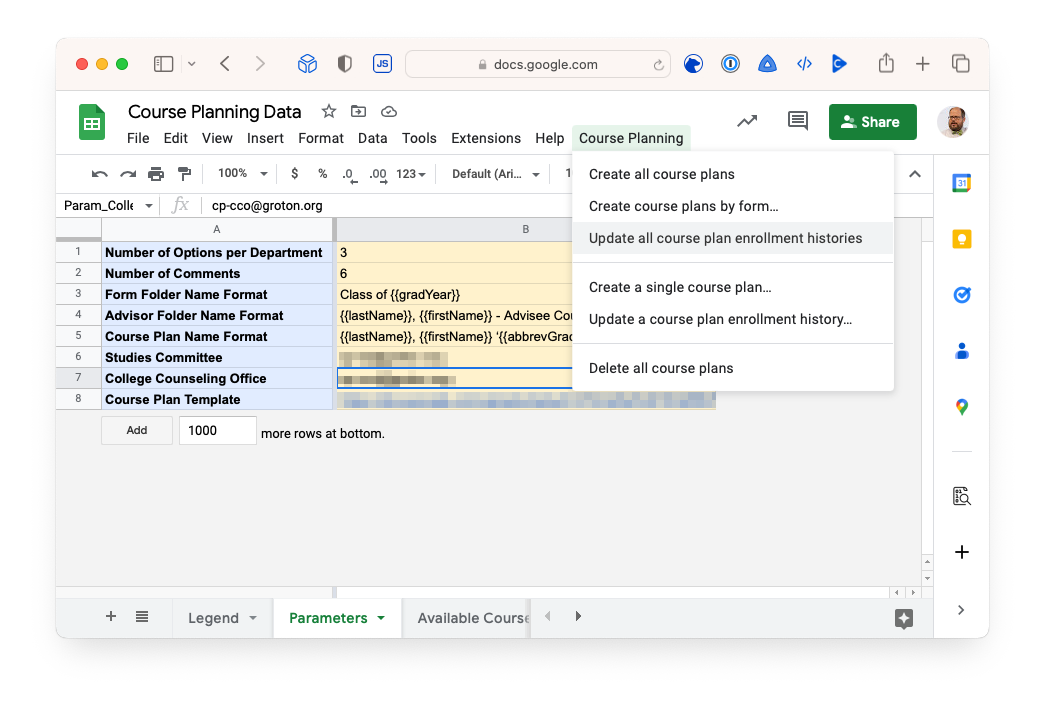
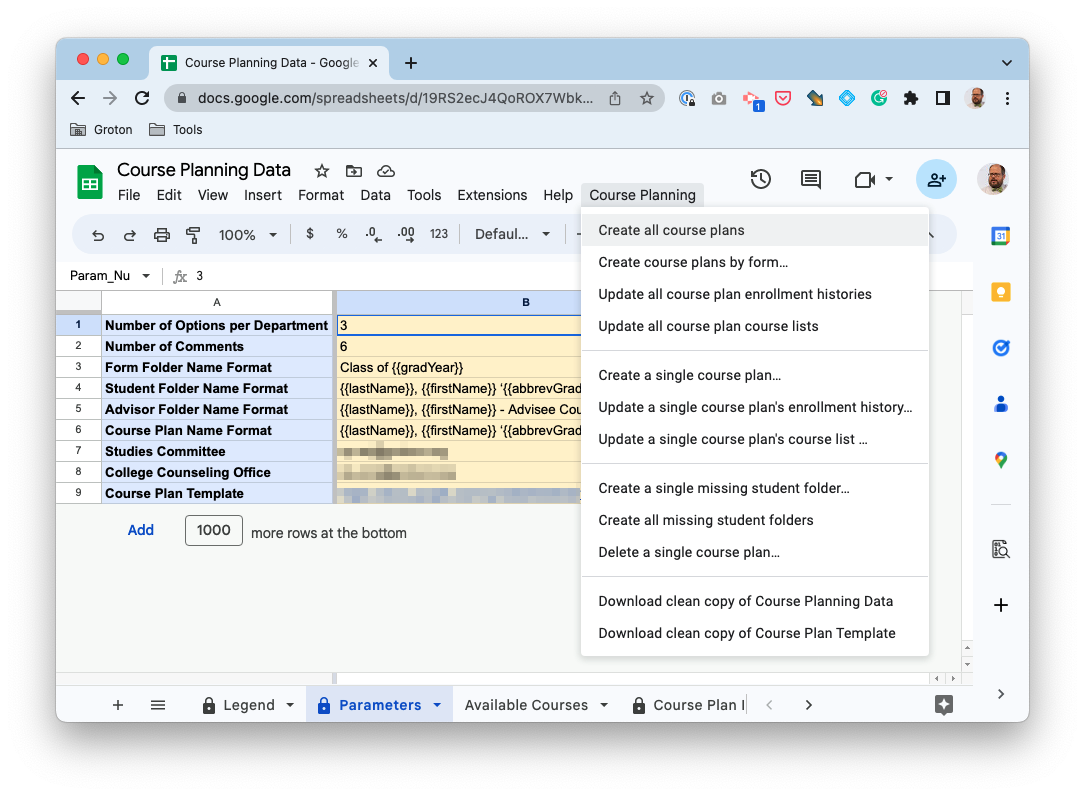
Clean up clean copy download (and docs)

Changed region(s): [[0.0306, 0.0309, 0.9799, 0.9579], [0.5512, 0.6489, 0.7656, 0.7107]]

diff --git a/src/Workflow/Documentation.ts b/src/Workflow/Documentation.ts
@@ -1,13 +1,14 @@
 import g from '@battis/gas-lighter';
+import * as SheetParameters from '../CoursePlan/SheetParameters';
 
-export const DownloadExpurgatedCoursePlanningData = () =>
-  'downloadExpurgatedCoursePlanningData';
-global.downloadExpurgatedCoursePlanningData = () => {
+export const DownloadEmptyCoursePlanningData = () =>
+  'downloadEmptyCoursePlanningData';
+global.downloadEmptyCoursePlanningData = () => {
   const progress = g.HtmlService.Element.Progress.bindTo(Utilities.getUuid());
   progress.reset();
   SpreadsheetApp.getUi().showModalDialog(
     progress.getHtmlOutput(),
-    'Get Clean Copy'
+    'Download clean copy of Course Planning Data'
   );
 
   const inventories = {
@@ -85,12 +86,72 @@ global.downloadExpurgatedCoursePlanningData = () => {
   const ieh = cleanCopy.getSheetByName('Individual Enrollment History');
   ieh.getRange('A1:A2').setValues([[''], ['']]);
 
+  const cleanUp = g.HtmlService.Element.Progress.bindTo(Utilities.getUuid());
+  cleanUp.setStatus('Cleaning up…');
+
   progress.setComplete({
-    html: `<a class="button action" target="_blank" onclick="google.script.host.close()" href="${cleanCopy
-      .getUrl()
-      .replace(
-        /\/edit.*/,
-        '/export?format=xlsx'
-      )}">Download ${cleanCopy.getName()}.xlsx</a>`
+    html: `
+            <a
+                id="download"
+                class="button action"
+                target="_blank"
+                href="${cleanCopy
+                  .getUrl()
+                  .replace(/\/edit.*/, '/export?format=xlsx')}"
+            >
+                Download ${cleanCopy.getName()}
+            </a>
+            <script>
+                document.querySelector('#download').addEventListener('click', () => {
+                    replaceContent(${JSON.stringify(cleanUp.getHtml())});
+                    google.script.run.withSuccessHandler(() => google.script.host.close()).documentationDeleteTempFile('${cleanCopy.getId()}')
+                });
+            </script>
+    `
   });
+};
+
+global.documentationDeleteTempFile = (
+  id: string,
+  delayInSeconds: number = 5
+) => {
+  Utilities.sleep(delayInSeconds * 1000);
+  DriveApp.getFileById(id).setTrashed(true);
+};
+
+export const DownloadEmptyCoursePlanTemplate = () =>
+  'documentationDownloadEmptyCoursePlanTemplate';
+global.documentationDownloadEmptyCoursePlanTemplate = () => {
+  const template = SpreadsheetApp.openByUrl(
+    SheetParameters.getCoursePlanTemplate()
+  );
+  SpreadsheetApp.getUi().showModalDialog(
+    g.HtmlService.createTemplate(
+      `
+        <html>
+          <head>
+            <?!= include('style', data) ?>
+          </head>
+          <body>
+            <div id="content">
+                <a
+                    id="download"
+                    class="button action"
+                    target="_blank"
+                    href="${template
+                      .getUrl()
+                      .replace(/\/edit.*/, '/export?format=xlsx')}"
+                >
+                    Download ${template.getName()}
+                </a>
+                <script>
+                    document.querySelector('#download').addEventListener('click', () => google.script.host.close());
+                </script>
+            </div>
+        </body>
+        </html>
+        `
+    ).setHeight(100),
+    'Download clean copy of Course Plan Template'
+  );
 };

diff --git a/src/AddOn.ts b/src/AddOn.ts
@@ -35,8 +35,12 @@ export function onOpen() {
     .addItem('Delete a single course plan…', Workflow.Delete.Single())
     .addSeparator()
     .addItem(
-      'Download expurgated XLSX',
-      Workflow.Documentation.DownloadExpurgatedCoursePlanningData()
+      'Download clean copy of Course Planning Data',
+      Workflow.Documentation.DownloadEmptyCoursePlanningData()
+    )
+    .addItem(
+      'Download clean copy of Course Plan Template',
+      Workflow.Documentation.DownloadEmptyCoursePlanTemplate()
     )
     .addToUi();
 }

diff --git a/README.md b/README.md
@@ -18,39 +18,93 @@ All workflows are available from the `Course Planning` menu in the [Course Plann
 
 ![Screenshot](./images/screenshot.png)
 
-#### Create all course plans
+<table><thead><th>
+  
+#### Management
+
+</th></thead><tbody><tr><td>
+        
+##### Create all course plans
 
 Creates a new course plan for all students in the Advisor List sheet who do not already have a course plan registered in the Course Plan Inventory sheet, updating permissions and the Course Plan Inventory.
 
-#### Create course plans by form…
+##### Create course plans by form…
 
 Presents a dialog to choose a form by class year. Upon selection, it will create a new course plan for each student in the form in the Advisor List sheet who do not already have a course plan registered in the Course Plan Inventory sheet, updating permissions and the Course Plan Inventory.
 
-#### Update all course plan enrollment histories
+##### Update all course plan enrollment histories
 
 Updates all course plans in the Course Plan Inventory to reflect updated enrollment history. See note on [Update a single course plan's enrollment history](#update-a-single-course-plans-enrollment-history) below.
 
-#### Update all course plan course lists
+##### Update all course plan course lists
 
 Updates the Courses by Department sheet of all course plans in the Course Plan Inventory to match the Courses by Department sheet of the Course Planning Data sheet.
 
-#### Create a single course plan…
+</td></tr></tbody></table>
+<table><thead><th>
+  
+#### Troubleshooting
+
+</th></thead><tbody><tr><td>
+
+##### Create a single course plan…
 
 Presents a dialog to choose a student from the list of students in the Advisor List sheet. Upon selection, it will create a new course plan for that student if there is not one already registered in the Course Plan Inventory sheet, updating permissions and the Course Plan Inventory. At the end, you will be presented with a direct link to the student course plan (either pre-existing or newly created).
 
-#### Update a single course plan's enrollment history…
+##### Update a single course plan's enrollment history…
 
 Updates a specific course plan to reflect updated enrollment history. This does not expand the enrollment history beyond the original scope (i.e., if created in the spring of 2023, and then updated in spring of 2024, it will _not_ add 2024 courses in and will _not_ overwrite plans/comments).
 
-#### Update a single course plan's course list…
+##### Update a single course plan's course list…
 
 Updates a specific course plan's Courses by Department sheet to match the Course Planning Data Courses by Department sheet.
 
-#### Delete all course plans
+##### Delete a single course plan…
 
-Clears the Plans Form Folder Inventory, Advisor Folder Inventory, and Course Plan Inventory, deleting all referenced folders and course plans. A global reset.
+Select a the student whose course plan to delete. This will leave all containers (student folder, advisor folder, form folders) and shortcuts, deleting only the course plan.
 
-### A student changes advisor (manual update)
+</td></tr></tbody></table>
+<table><thead><th colspan="2">
+  
+#### Restructuring
+
+</th></thead><tbody><tr><th>
+  
+##### v0.2.0
+  
+</th><td>
+
+##### Create a single missing student folder…
+
+Select the student who already has a course plan for whom to check for a missing student folder, and create it (if missing), updating inventories and reorganizing the existing course plan and shortcuts.
+
+##### Create all missing student folders
+
+Check all students who have course plans for a missing student folder, and create it (if missing), updating inventories and reorganizing the existing course plan and shortcuts.
+
+</td></tr></tbody></table>
+<table><thead><th>
+
+#### Documentation
+
+</th></thead><tbody><tr><td>
+
+##### Download a clean copy of Course Planning Data
+
+Downloads an XLSX file that contains all of the formatting and functions, but none of the data in the Course Planning Data sheet. (Useful for documentation.)
+
+##### Download a clean copy of Course Plan Template
+
+Downloads an XLSX file that contains all of the formatting and unctions, but none of the data in the Course Plan Template sheet. (Useful for documenation.)
+
+</td></tr></tbody></table>
+<table><thead><th>
+  
+#### Manual Updates
+
+</th></thead><tbody><tr><td>
+
+##### A student changes advisor
 
 1. Add the new advisor as an editor on the course plan
 2. On the Course Plan sheet, adjust the Protected Ranges (under Data)
@@ -58,6 +112,8 @@ Clears the Plans Form Folder Inventory, Advisor Folder Inventory, and Course Pla
    2. Remove the old advisor from Comments from Faculty Advisor
 3. Remove the old advisor as an editor on the spreadsheet
 4. Move the shortcut to the course plan from the old advisory group folder to the new advisory group folder
+
+</td></tr></tbody></table>
 
 ## Technical Overview
 
